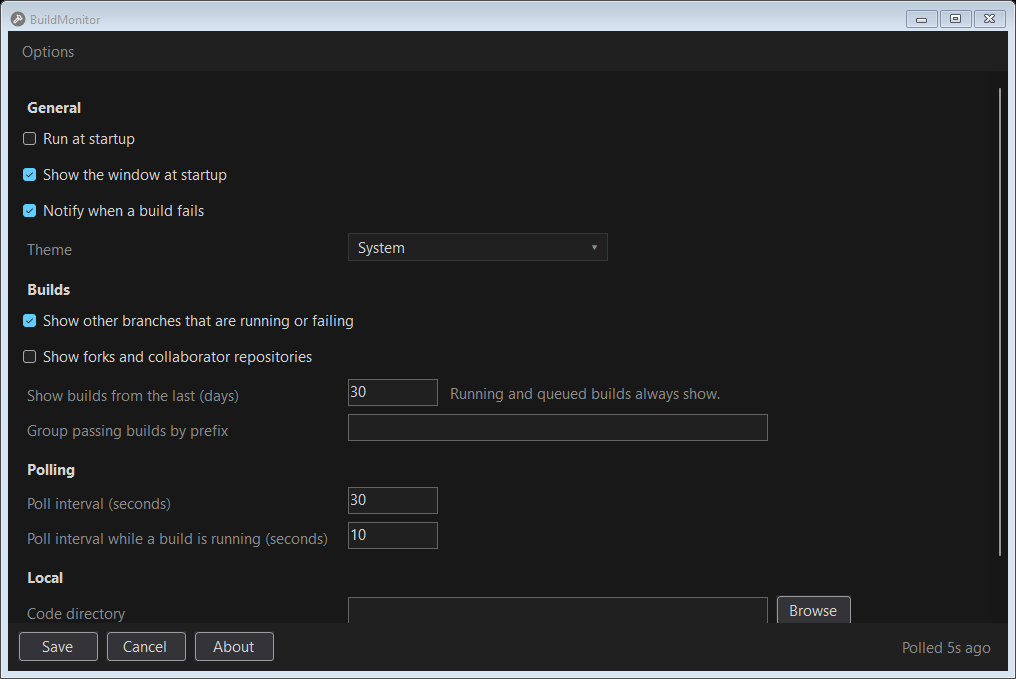
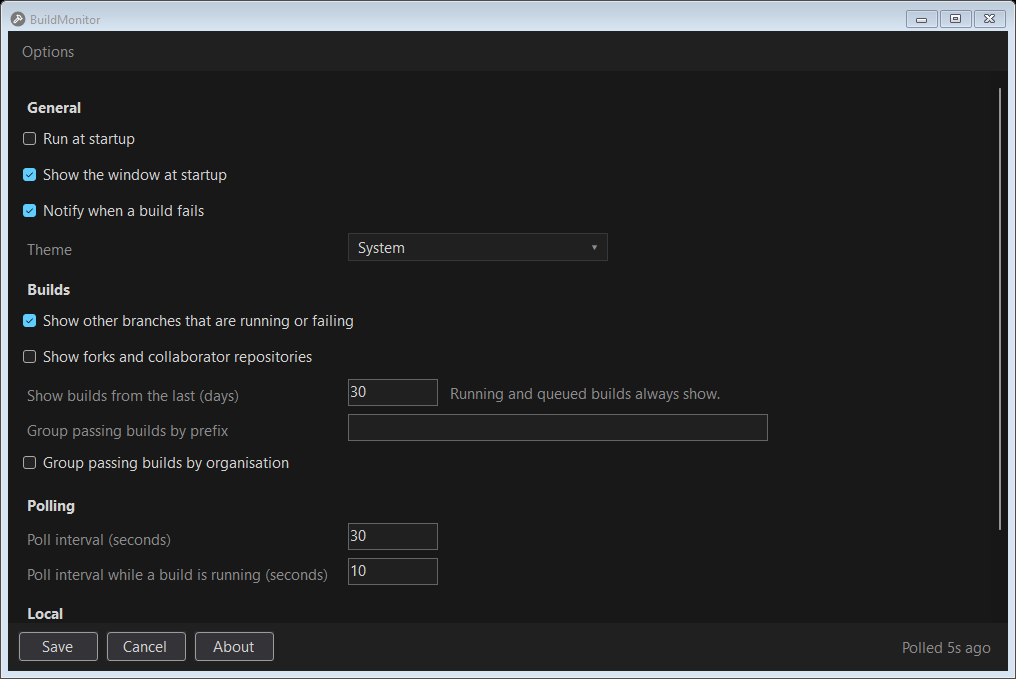
.

Changed region(s): [[0.0305, 0.6804, 0.4272, 0.866], [0.7628, 0.866, 0.8543, 0.9278], [0.0305, 0.8969, 0.122, 0.9278]]

diff --git a/src/BuildMonitor.Core/Session/GroupKey.cs b/src/BuildMonitor.Core/Session/GroupKey.cs
@@ -2,7 +2,8 @@
 /// What passing builds share a group by, ignoring case: a prefix from
 /// <see cref="Settings.GroupPrefixes"/> where the project starts with one, then the group the
 /// service itself files the pipeline under, and otherwise the repository's short name, so one
-/// project watched on two CI services reads as one group.
+/// project watched on two CI services reads as one group. With <see cref="Settings.GroupByOrg"/>
+/// the owner of the repository, such as a GitHub organisation, comes before the repository's name.
 /// <para>
 /// Only passes are grouped. A failure is what the window is for, and a group is a line that hides
 /// its members: two broken pipelines of one repository read as "2 failing" and said neither which
@@ -14,6 +15,10 @@
 /// surely as one repository's workflows do: a dozen green pipelines across TheProjectApi,
 /// TheProjectUI and TheProjectManager still took a row each until "TheProject" made them one. A
 /// prefix wins over the service's own group too, since it is the one of the two someone typed.
+/// </para>
+/// <para>
+/// The owner loses to both a prefix and the service's own group, since each of those names a
+/// narrower family than everything one organisation owns.
 /// </para>
 /// </summary>
 record GroupKey(string Project)
@@ -32,7 +37,7 @@ record GroupKey(string Project)
     /// says what broke; a running or queued one, which keeps a row of its own at the top; and a
     /// cancelled one, which says nothing about the project.
     /// </summary>
-    public static GroupKey? Of(Build build, ImmutableArray<string> prefixes)
+    public static GroupKey? Of(Build build, ImmutableArray<string> prefixes, bool byOrg = false)
     {
         if (build.Status != BuildStatus.Succeeded)
         {
@@ -50,6 +55,12 @@ record GroupKey(string Project)
             return new(group);
         }
 
+        if (byOrg &&
+            Org(build.RepoName.AsSpan()) is { Length: > 0 } org)
+        {
+            return new(org.ToString());
+        }
+
         return new(project);
     }
 
@@ -58,7 +69,7 @@ record GroupKey(string Project)
     /// making the key. Grouping needs every passing build's id but only a group's row needs a key,
     /// whose project is a string of its own.
     /// </summary>
-    public static string? IdOf(Build build, ImmutableArray<string> prefixes)
+    public static string? IdOf(Build build, ImmutableArray<string> prefixes, bool byOrg = false)
     {
         if (build.Status != BuildStatus.Succeeded)
         {
@@ -76,7 +87,29 @@ record GroupKey(string Project)
             return IdOf(group.AsSpan());
         }
 
+        if (byOrg &&
+            Org(build.RepoName.AsSpan()) is { Length: > 0 } org)
+        {
+            return IdOf(org);
+        }
+
         return IdOf(project);
+    }
+
+    /// <summary>
+    /// The first segment of the repository's full name: the GitHub organisation or user, or the top
+    /// GitLab group rather than a subgroup, so one owner is one group however deep its projects sit.
+    /// Empty for a name with no owner in it.
+    /// </summary>
+    static CharSpan Org(CharSpan repoName)
+    {
+        var slash = repoName.IndexOf('/');
+        if (slash < 0)
+        {
+            return [];
+        }
+
+        return repoName[..slash];
     }
 
     /// <summary>

diff --git a/src/BuildMonitor.Tests/GroupKeyTests.cs b/src/BuildMonitor.Tests/GroupKeyTests.cs
@@ -95,4 +95,41 @@ public class GroupKeyTests
 
     static Build Build(string repo, BuildStatus status) =>
         Fixtures.Build(Fixtures.GitHub.Id, "test.yml", "test.yml", repo, "main", "1", status);
+
+    /// <summary>
+    /// Grouping by owner puts every repository of one organisation in one group, off by default.
+    /// </summary>
+    [Test]
+    public async Task TheOwnerKeysAheadOfTheRepositoryWhenAskedFor()
+    {
+        var build = Build("VerifyTests/Verify.Http", BuildStatus.Succeeded);
+        await Assert.That(GroupKey.Of(build, [], byOrg: true)!.Project).IsEqualTo("VerifyTests");
+        await Assert.That(GroupKey.IdOf(build, [], byOrg: true)).IsEqualTo("verifytests");
+        await Assert.That(GroupKey.IdOf(build, [])).IsEqualTo("verify.http");
+    }
+
+    /// <summary>
+    /// The owner loses to both a prefix and the service's own group.
+    /// </summary>
+    [Test]
+    public async Task APrefixAndTheServicesOwnGroupBeatTheOwner()
+    {
+        var prefixed = Build("VerifyTests/TheProjectApi", BuildStatus.Succeeded);
+        await Assert.That(GroupKey.IdOf(prefixed, ["TheProject"], byOrg: true)).IsEqualTo("theproject");
+        var grouped = Build("VerifyTests/Deploy", BuildStatus.Succeeded) with
+        {
+            ProjectGroup = "Storefront"
+        };
+        await Assert.That(GroupKey.IdOf(grouped, [], byOrg: true)).IsEqualTo("storefront");
+    }
+
+    /// <summary>
+    /// A name with no owner in it keeps the repository's group.
+    /// </summary>
+    [Test]
+    public async Task ANameWithNoOwnerKeysByTheRepository()
+    {
+        var build = Build("Verify", BuildStatus.Succeeded);
+        await Assert.That(GroupKey.IdOf(build, [], byOrg: true)).IsEqualTo("verify");
+    }
 }

diff --git a/src/BuildMonitor.Tests/RowProjectionTests.cs b/src/BuildMonitor.Tests/RowProjectionTests.cs
@@ -6,7 +6,7 @@ public class RowProjectionTests
         var state = Fixtures.WithGreenProject();
         var pipelines = RowProjection.Pipelines(state);
         var builds = new SortedBuilds(state.Settings, state.Connections, state.Builds, state.Verdicts, pipelines, RowProjection.Builds(state));
-        var rows = new ProjectedRows(pipelines, state.Connections, state.Settings.OpenGroups, state.Search, state.Settings.GroupPrefixes, []);
+        var rows = new ProjectedRows(pipelines, state.Connections, state.Settings.OpenGroups, state.Search, state.Settings.GroupPrefixes, state.Settings.GroupByOrg, []);
         var moved = MonitorSession.SelectRow(state, 1);
         await Assert.That(builds.IsFor(moved)).IsTrue();
         await Assert.That(rows.IsFor(moved, pipelines)).IsTrue();
@@ -18,7 +18,7 @@ public class RowProjectionTests
         var state = Fixtures.WithGreenProject();
         var sorted = RowProjection.Pipelines(state);
         var builds = new SortedBuilds(state.Settings, state.Connections, state.Builds, state.Verdicts, sorted, RowProjection.Builds(state));
-        var rows = new ProjectedRows(sorted, state.Connections, state.Settings.OpenGroups, state.Search, state.Settings.GroupPrefixes, []);
+        var rows = new ProjectedRows(sorted, state.Connections, state.Settings.OpenGroups, state.Search, state.Settings.GroupPrefixes, state.Settings.GroupByOrg, []);
         await Assert.That(
                 rows.IsFor(MonitorSession.ToggleGroup(state, Fixtures.VerifyPassing), sorted))
             .IsFalse();

diff --git a/src/BuildMonitor.Core/Session/RowProjection.cs b/src/BuildMonitor.Core/Session/RowProjection.cs
@@ -40,7 +40,7 @@ static class RowProjection
         }
 
         var rows = Project(state, pipelines);
-        lastRows = new(pipelines, state.Connections, state.Settings.OpenGroups, state.Search, state.Settings.GroupPrefixes, rows);
+        lastRows = new(pipelines, state.Connections, state.Settings.OpenGroups, state.Search, state.Settings.GroupPrefixes, state.Settings.GroupByOrg, rows);
         return rows;
     }
 
@@ -65,7 +65,8 @@ static class RowProjection
         // Each build's group id once, and a key only for a group's row. Making a key for every
         // passing build at every step cost each of them a handful of strings a projection.
         var prefixes = state.Settings.GroupPrefixes;
-        var ids = builds.Select(_ => GroupKey.IdOf(_, prefixes)).ToArray();
+        var byOrg = state.Settings.GroupByOrg;
+        var ids = builds.Select(_ => GroupKey.IdOf(_, prefixes, byOrg)).ToArray();
         // A repository's pipelines together, in the order its most recent one came, so under a
         // prefix group each repository is named once, on the first of its rows.
         var groups = Enumerable.Range(0, builds.Length)
@@ -95,7 +96,7 @@ static class RowProjection
                 continue;
             }
 
-            var key = GroupKey.Of(build, prefixes)!;
+            var key = GroupKey.Of(build, prefixes, byOrg)!;
             var expanded = IsExpanded(state, key);
             rows.Add(new(RowKind.Group, null, null, key, expanded, members, []));
             if (!expanded)

diff --git a/src/BuildMonitor.Core/Session/ProjectedRows.cs b/src/BuildMonitor.Core/Session/ProjectedRows.cs
@@ -3,14 +3,15 @@
 /// returned and what it was projected from, which it hands back while those are the same
 /// instances. See <see cref="RowProjection"/> for why.
 /// </summary>
-sealed record ProjectedRows(ImmutableArray<PipelineBuilds> Pipelines, ImmutableArray<ConnectionState> Connections, ImmutableHashSet<string> OpenGroups, string Search, ImmutableArray<string> GroupPrefixes, ImmutableArray<Row> Rows)
+sealed record ProjectedRows(ImmutableArray<PipelineBuilds> Pipelines, ImmutableArray<ConnectionState> Connections, ImmutableHashSet<string> OpenGroups, string Search, ImmutableArray<string> GroupPrefixes, bool GroupByOrg, ImmutableArray<Row> Rows)
 {
     public bool IsFor(SessionState state, ImmutableArray<PipelineBuilds> pipelines) =>
         Pipelines == pipelines &&
         Connections == state.Connections &&
         ReferenceEquals(OpenGroups, state.Settings.OpenGroups) &&
         Search == state.Search &&
-        // Saved prefixes change which builds share a group, and nothing else a projection reads
+        // Saved prefixes, or grouping by owner, change which builds share a group, and nothing else a projection reads
         // moves when they do: the same builds would have been handed back under the old groups.
-        GroupPrefixes == state.Settings.GroupPrefixes;
+        GroupPrefixes == state.Settings.GroupPrefixes &&
+        GroupByOrg == state.Settings.GroupByOrg;
 }

diff --git a/src/BuildMonitor.Core/Session/ScreenBuilder.cs b/src/BuildMonitor.Core/Session/ScreenBuilder.cs
@@ -941,6 +941,7 @@ static class ScreenBuilder
             new(FormFields.ShowForks, FieldKind.Checkbox, "Show forks and collaborator repositories", form.Value(FormFields.ShowForks)),
             new(FormFields.HistoryDays, FieldKind.Number, "Show builds from the last (days)", form.Value(FormFields.HistoryDays), Note: "Running and queued builds always show."),
             new(FormFields.GroupPrefixes, FieldKind.Text, "Group passing builds by prefix", form.Value(FormFields.GroupPrefixes), Hint: "Comma separated, eg TheProject"),
+            new(FormFields.GroupByOrg, FieldKind.Checkbox, "Group passing builds by organisation", form.Value(FormFields.GroupByOrg)),
             Heading(FormFields.PollingHeading, "Polling"),
             new(FormFields.PollInterval, FieldKind.Number, "Poll interval (seconds)", form.Value(FormFields.PollInterval)),
             new(FormFields.RunningPollInterval, FieldKind.Number, "Poll interval while a build is running (seconds)", form.Value(FormFields.RunningPollInterval)),

diff --git a/src/BuildMonitor.Core/Settings/Settings.cs b/src/BuildMonitor.Core/Settings/Settings.cs
@@ -40,6 +40,13 @@ record Settings
     public ImmutableArray<string> GroupPrefixes { get; init; } = [];
 
     /// <summary>
+    /// Groups passing builds by the repository's owner, such as a GitHub organisation, where no
+    /// prefix and no group of the service's own claims them. Off by default: someone watching one
+    /// organisation would see every green row fold into one. See <see cref="GroupKey"/>.
+    /// </summary>
+    public bool GroupByOrg { get; init; }
+
+    /// <summary>
     /// The <see cref="GroupKey.Id"/> of each group the user opened. A group is closed until they
     /// do. Saved rather than held for the session, which closed every group on each start of an
     /// app that starts at every login.

diff --git a/src/BuildMonitor.Core/Session/MonitorSession.cs b/src/BuildMonitor.Core/Session/MonitorSession.cs
@@ -675,6 +675,7 @@ static class MonitorSession
         values[FormFields.ShowForks] = Flag(settings.ShowForksAndCollaborations);
         values[FormFields.NotifyOnFailure] = Flag(settings.NotifyOnFailure);
         values[FormFields.GroupPrefixes] = string.Join(", ", settings.GroupPrefixes);
+        values[FormFields.GroupByOrg] = Flag(settings.GroupByOrg);
         values[FormFields.Theme] = settings.Theme.ToString();
         values[FormFields.PollInterval] = settings.PollIntervalSeconds.ToString();
         values[FormFields.RunningPollInterval] = settings.RunningPollIntervalSeconds.ToString();

diff --git a/src/BuildMonitor.Core/Session/OptionsDraft.cs b/src/BuildMonitor.Core/Session/OptionsDraft.cs
@@ -41,6 +41,7 @@ static class OptionsDraft
             ShowForksAndCollaborations = form.Flag(FormFields.ShowForks),
             NotifyOnFailure = form.Flag(FormFields.NotifyOnFailure),
             GroupPrefixes = Prefixes(form.Value(FormFields.GroupPrefixes)),
+            GroupByOrg = form.Flag(FormFields.GroupByOrg),
             Theme = Enum.TryParse<Theme>(form.Value(FormFields.Theme), out var theme) ? theme : current.Theme,
             PollIntervalSeconds = poll,
             RunningPollIntervalSeconds = running,

diff --git a/src/BuildMonitor.Core/App/NotifyIconSettings.cs b/src/BuildMonitor.Core/App/NotifyIconSettings.cs
@@ -100,7 +100,16 @@ static partial class NotifyIconSettings
                 continue;
             }
 
-            bool? promoted = entry.GetValue(promotedName) is int value ? value != 0 : null;
+            bool? promoted;
+            if (entry.GetValue(promotedName) is int value)
+            {
+                promoted = value != 0;
+            }
+            else
+            {
+                promoted = null;
+            }
+
             entries.Add(new(name, Expand(path), promoted));
         }
 

diff --git a/src/BuildMonitor.Core/Session/FormFields.cs b/src/BuildMonitor.Core/Session/FormFields.cs
@@ -15,6 +15,7 @@ static class FormFields
     public const string ShowForks = "showForks";
     public const string NotifyOnFailure = "notifyOnFailure";
     public const string GroupPrefixes = "groupPrefixes";
+    public const string GroupByOrg = "groupByOrg";
     public const string Theme = "theme";
     public const string PollInterval = "pollInterval";
     public const string RunningPollInterval = "runningPollInterval";
